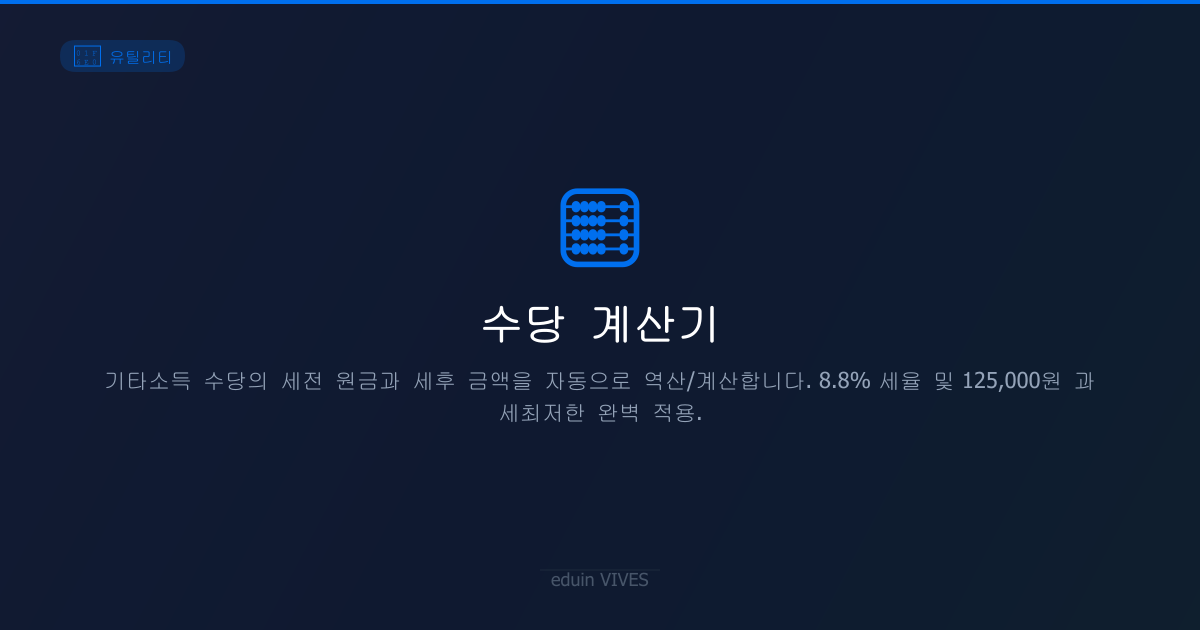
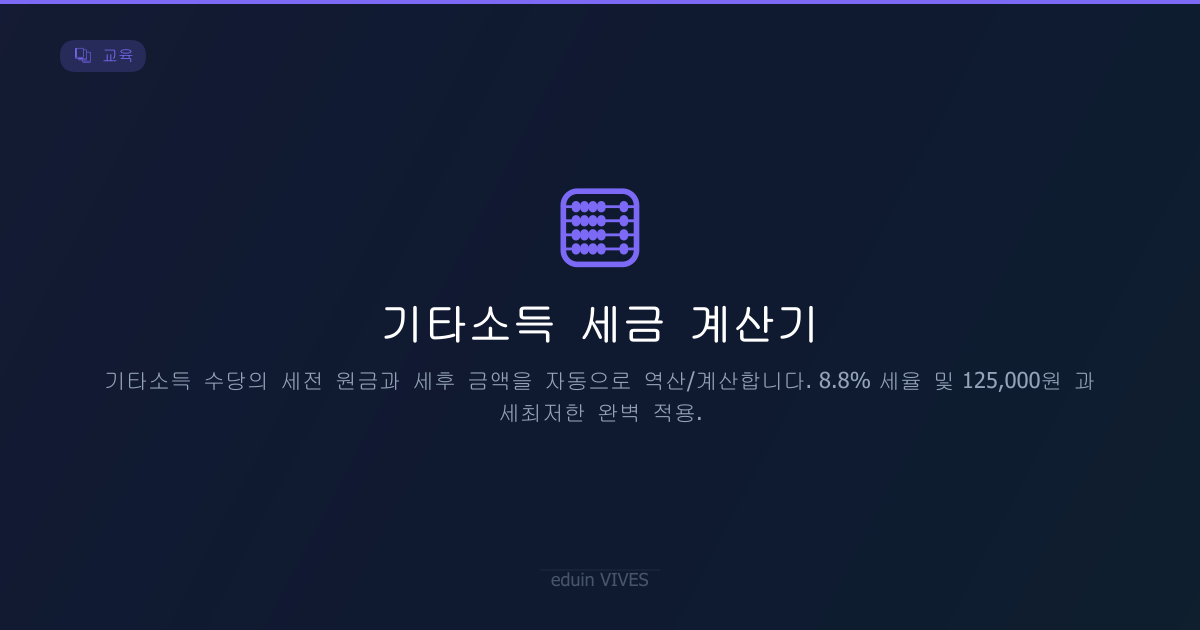
feat: 404 전환 폴백 + allowance-calculator 셸 리팩터·개명 (4단계 시작)
404.html (옛 URL 전환 + 유사앱 추천):
- 옛 /<slug>/ → /apps/<slug>/, /chrome-extentions/* → /downloads/* 자동 전환(해시·쿼리 보존)
- 정적 리다이렉트 목록 없이 apps.json 기반
- 미매치 시: 5종 감성 헤딩(랜덤) + 경로 퍼지매칭으로 유사앱 추천(리퍼럴 출처는 제외)

수당 계산기 → '기타소득 세금 계산기' 개명 (id/URL은 allowance-calculator 유지):
- apps.json title/seo.title, 앱 HTML title·h1·og·twitter·JSON-LD, OG 이미지 재생성

allowance-calculator 셸 리팩터(첫 시연):
- data-shell="column" data-width="narrow", 복붙 크롬 제거(셸 주입), .app-main으로 레이아웃 이관

(동봉) 콘텐츠 편집: volcano·blocks-universe 설명 단축, edulink 링크(에듀맵스·에듀포털) 갱신

diff --git a/public/404.html b/public/404.html
@@ -1,0 +1,144 @@
+<!DOCTYPE html>
+<html lang="ko">
+<head>
+  <meta charset="UTF-8">
+  <meta name="viewport" content="width=device-width, initial-scale=1.0">
+  <title>페이지를 찾을 수 없습니다 — eduin VIVES</title>
+  <meta name="robots" content="noindex">
+  <link rel="icon" href="/favicon.svg" type="image/svg+xml">
+  <link rel="stylesheet" href="/common/hero-theme.css">
+  <link rel="stylesheet" href="/common/app-shell.css">
+  <script src="/common/theme.js"></script>
+  <script src="/common/init.js"></script>
+  <script src="/common/app-shell.js" defer></script>
+  <style>
+    #nf { visibility: hidden; text-align: center; }
+    #nf .nf-emoji { font-size: 56px; margin-bottom: 12px; line-height: 1; }
+    #nf-suggest { margin-top: 1.25rem; display: none; }
+    .nf-suggest-card {
+      display: flex; align-items: center; gap: 12px; text-decoration: none;
+      padding: 14px 16px; border: 1px solid var(--border); border-radius: 12px;
+      background: var(--card-bg); color: var(--fg); transition: border-color .15s, transform .1s;
+      text-align: left;
+    }
+    .nf-suggest-card:hover { border-color: var(--primary); transform: translateY(-1px); }
+    .nf-suggest-emoji { font-size: 28px; line-height: 1; flex-shrink: 0; }
+    .nf-suggest-title { font-weight: 700; }
+    .nf-suggest-desc { font-size: .8rem; color: var(--fg-muted); margin-top: 2px; }
+    .nf-suggest-label { font-size: .85rem; color: var(--fg-muted); margin-bottom: .6rem; }
+  </style>
+  <script>
+    /* 옛 경로 → 새 경로 자동 전환 + 유사 앱 추천 (apps.json 기반, 정적 리다이렉트 목록 없음) */
+    (function () {
+      var path = location.pathname;
+      if (path.indexOf('/apps/') === 0 || path === '/' || path === '') return;
+
+      // 다운로드 자산 경로
+      if (path.indexOf('/chrome-extentions/') === 0) {
+        location.replace(path.replace('/chrome-extentions/', '/downloads/') + location.search + location.hash);
+        return;
+      }
+
+      var slug = path.replace(/^\/+/, '').split('/')[0];
+
+      fetch('/apps.json').then(function (r) { return r.json(); }).then(function (d) {
+        var apps = d.apps || [];
+        var pages = apps.filter(function (a) { return a.href && a.href.indexOf('/apps/') === 0; });
+        var idOf = function (a) { var m = a.href.match(/^\/apps\/([^\/]+)\//); return m ? m[1] : a.id; };
+
+        // 1) 정확 매치 → 즉시 전환 (해시·쿼리 보존)
+        for (var i = 0; i < pages.length; i++) {
+          if (idOf(pages[i]) === slug) { location.replace('/apps' + path + location.search + location.hash); return; }
+        }
+
+        // 2) 경로 + 리퍼럴로 유사 앱 추천
+        showNotFound(pages, slug, idOf);
+      }).catch(function () { showNotFound([], slug, null); });
+
+      // ── Levenshtein 유사도 ──
+      function lev(a, b) {
+        var m = a.length, n = b.length, dp = [], i, j;
+        for (i = 0; i <= m; i++) dp[i] = [i];
+        for (j = 0; j <= n; j++) dp[0][j] = j;
+        for (i = 1; i <= m; i++) for (j = 1; j <= n; j++)
+          dp[i][j] = Math.min(dp[i-1][j] + 1, dp[i][j-1] + 1, dp[i-1][j-1] + (a[i-1] === b[j-1] ? 0 : 1));
+        return dp[m][n];
+      }
+      function sim(a, b) {
+        a = (a || '').toLowerCase(); b = (b || '').toLowerCase();
+        if (!a || !b) return 0;
+        if (a === b) return 1;
+        if (b.indexOf(a) >= 0 || a.indexOf(b) >= 0) return 0.85;
+        return 1 - lev(a, b) / Math.max(a.length, b.length);
+      }
+
+      function bestMatch(pages, slug, idOf) {
+        // 리퍼럴(같은 사이트 내 출처) 앱은 추천에서 제외 — 방금 떠나온 앱을 다시 권하지 않도록
+        var fromId = null;
+        try {
+          if (document.referrer) {
+            var u = new URL(document.referrer);
+            if (u.origin === location.origin) {
+              var m = u.pathname.match(/^\/apps\/([^\/]+)\//);
+              if (m) fromId = m[1];
+            }
+          }
+        } catch (e) { /* ignore */ }
+
+        // 시도한 경로 slug를 앱 id/title과 퍼지 매칭(주 신호)
+        var best = null, bestScore = 0;
+        pages.forEach(function (a) {
+          var id = idOf(a);
+          if (id === fromId) return;
+          [id, (a.title || ''), (a.id || '')].forEach(function (c) {
+            var s = sim(slug, c);
+            if (s > bestScore) { bestScore = s; best = a; }
+          });
+        });
+        return bestScore >= 0.5 ? best : null;
+      }
+
+      var HEADINGS = [
+        '길을 잃으셨나요? 🧭',
+        '여긴 텅 비어 있어요 🌙',
+        '이 페이지는 어디로 갔을까요? 🔍',
+        '앗, 막다른 길이에요 🚧',
+        '찾으시는 게 여기엔 없네요 🍃'
+      ];
+
+      function showNotFound(pages, slug, idOf) {
+        var h = document.getElementById('nf-heading');
+        if (h) h.textContent = HEADINGS[Math.floor(Math.random() * HEADINGS.length)];
+
+        var match = idOf ? bestMatch(pages, slug, idOf) : null;
+        if (match) {
+          var box = document.getElementById('nf-suggest');
+          box.innerHTML =
+            '<div class="nf-suggest-label">혹시 이 앱을 찾으시려고 했나요?</div>' +
+            '<a class="nf-suggest-card" href="' + match.href + '">' +
+              '<span class="nf-suggest-emoji">' + (match.emoji || '📦') + '</span>' +
+              '<span><span class="nf-suggest-title">' + match.title + '</span>' +
+              '<span class="nf-suggest-desc">' + (match.desc || '') + '</span></span>' +
+            '</a>';
+          box.style.display = 'block';
+        }
+        reveal();
+      }
+
+      function reveal() { var el = document.getElementById('nf'); if (el) el.style.visibility = 'visible'; }
+      setTimeout(reveal, 3000);
+    })();
+  </script>
+</head>
+<body data-shell="column" data-width="narrow">
+  <main class="app-main">
+    <div id="nf" class="hero-card" style="padding:2.5rem 1.5rem;margin-top:2rem;">
+      <div class="nf-emoji">🧭</div>
+      <h1 id="nf-heading" class="app-title" style="justify-content:center;">페이지를 찾을 수 없어요</h1>
+      <p class="app-desc">주소가 바뀌었거나 사라진 페이지예요.</p>
+      <div id="nf-suggest"></div>
+      <a href="/" class="hero-btn" style="margin-top:1.25rem;">🏠 홈에서 찾아보기</a>
+    </div>
+  </main>
+</body>
+</html>

diff --git a/public/apps/allowance-calculator/index.html b/public/apps/allowance-calculator/index.html
@@ -3,9 +3,9 @@
 <head>
   <meta charset="UTF-8">
   <meta name="viewport" content="width=device-width, initial-scale=1.0">
-  <title>수당 계산기 — eduin VIVES</title>
+  <title>기타소득 세금 계산기 — eduin VIVES</title>
   <meta name="description" content="기타소득 수당의 세전 원금과 세후 금액을 자동으로 역산/계산합니다. 8.8% 세율 및 125,000원 과세최저한 완벽 적용.">
-  <meta property="og:title" content="수당 계산기 — 세전·세후 기타소득 세금 자동 판별 | eduin VIVES">
+  <meta property="og:title" content="기타소득 세금 계산기 — 세전·세후 기타소득 세금 자동 판별 | eduin VIVES">
   <meta property="og:description" content="기타소득 수당의 세전 원금과 세후 금액을 자동으로 역산/계산합니다. 8.8% 세율 및 125,000원 과세최저한 완벽 적용.">
   <meta property="og:image" content="https://eduin.info/og-images/allowance-calculator.png">
   <meta property="og:type" content="website">
@@ -16,21 +16,16 @@
   <link rel="preconnect" href="https://fonts.gstatic.com" crossorigin>
   <link href="https://fonts.googleapis.com/css2?family=JetBrains+Mono:wght@500;700;800&family=Noto+Sans+KR:wght@400;500;700&display=swap" rel="stylesheet">
   
-  <!-- 공통 테마 및 스타일 적용 -->
+  <!-- 공통 테마·셸·스타일 -->
   <link rel="stylesheet" href="/common/hero-theme.css">
+  <link rel="stylesheet" href="/common/app-shell.css">
   <script src="/common/theme.js"></script>
   <script src="/common/init.js"></script>
+  <script src="/common/app-shell.js" defer></script>
   <script src="/common/seo-injector.js" defer></script>
   
   <style>
-    body {
-      min-height: 100vh;
-      display: flex;
-      flex-direction: column;
-      align-items: center;
-      padding: 56px 1rem 6rem;
-      margin: 0;
-    }
+    body { margin: 0; }
 
     body::before {
       content: '';
@@ -44,12 +39,8 @@
       z-index: 0;
     }
 
-    /* 앱 전용 스타일 및 토큰 확장 */
+    /* 앱 전용 스타일 — 폭·정렬·패딩은 셸(.app-main, data-width=narrow)이 담당 */
     .calculator-layout {
-      width: 100%;
-      max-width: 480px;
-      position: relative;
-      z-index: 1;
       display: flex;
       flex-direction: column;
       gap: 24px;
@@ -303,37 +294,23 @@
     }
   </style>
   <meta name="twitter:card" content="summary_large_image">
-  <meta name="twitter:title" content="수당 계산기 — 세전·세후 기타소득 세금 자동 판별 | eduin VIVES">
+  <meta name="twitter:title" content="기타소득 세금 계산기 — 세전·세후 기타소득 세금 자동 판별 | eduin VIVES">
   <meta name="twitter:description" content="기타소득 수당의 세전 원금과 세후 금액을 자동으로 역산/계산합니다. 8.8% 세율 및 125,000원 과세최저한 완벽 적용.">
   <meta name="twitter:image" content="https://eduin.info/og-images/allowance-calculator.png">
   <link rel="canonical" href="https://eduin.info/apps/allowance-calculator/">
   <meta property="og:url" content="https://eduin.info/apps/allowance-calculator/">
-  <script type="application/ld+json">{"@context":"https://schema.org","@type":"WebApplication","name":"수당 계산기","description":"기타소득 수당의 세전 원금과 세후 금액을 자동으로 역산/계산합니다. 8.8% 세율 및 125,000원 과세최저한 완벽 적용.","url":"https://eduin.info/apps/allowance-calculator/","applicationCategory":"EducationApplication","operatingSystem":"Any","offers":{"@type":"Offer","price":"0","priceCurrency":"KRW"},"isPartOf":{"@type":"WebSite","name":"eduin VIVES","url":"https://eduin.info"}}</script>
+  <script type="application/ld+json">{"@context":"https://schema.org","@type":"WebApplication","name":"기타소득 세금 계산기","description":"기타소득 수당의 세전 원금과 세후 금액을 자동으로 역산/계산합니다. 8.8% 세율 및 125,000원 과세최저한 완벽 적용.","url":"https://eduin.info/apps/allowance-calculator/","applicationCategory":"EducationApplication","operatingSystem":"Any","offers":{"@type":"Offer","price":"0","priceCurrency":"KRW"},"isPartOf":{"@type":"WebSite","name":"eduin VIVES","url":"https://eduin.info"}}</script>
 </head>
-<body>
+<body data-shell="column" data-width="narrow">
 
-  <!-- 좌상단 홈가기 오버레이 -->
-  <div class="top-overlay-left">
-    <a href="/" class="overlay-btn">
-      <svg xmlns="http://www.w3.org/2000/svg" width="16" height="16" fill="none" viewBox="0 0 24 24" stroke="currentColor" stroke-width="2">
-        <path stroke-linecap="round" stroke-linejoin="round" d="M3 12l2-2m0 0l7-7 7 7M5 10v10a1 1 0 001 1h3m10-11l2 2m-2-2v10a1 1 0 01-1 1h-3m-6 0a1 1 0 001-1v-4a1 1 0 011-1h2a1 1 0 011 1v4a1 1 0 001 1m-6 0h6" />
-      </svg>
-      <span>홈</span>
-    </a>
-  </div>
-
-  <!-- 우상단 테마 및 공유 오버레이 -->
-  <div class="top-overlay">
-    <button id="themeToggleBtn" class="overlay-btn" onclick="cycleTheme()">💻</button>
-    <button class="overlay-btn" onclick="shareCurrentPage()">공유</button>
-  </div>
+  <!-- 플로팅 크롬(홈·테마·공유)은 app-shell.js가 주입 -->
 
   <!-- 계산기 레이아웃 -->
-  <div class="page-wrap calculator-layout" style="position: relative; z-index: 1;">
+  <main class="app-main calculator-layout">
     
     <header class="app-header">
       <span class="app-badge">◆ 업무경감</span>
-      <h1 class="app-title">🧮 수당 계산기</h1>
+      <h1 class="app-title">🧮 기타소득 세금 계산기</h1>
       <p class="app-desc">세전 원금과 세후 실수령액 및 기타소득 세금(8.8%)을 한 번에 자동 판별하고 계산합니다.</p>
     </header>
 
@@ -402,7 +379,7 @@
       </div>
     </div>
 
-  </div>
+  </main>
 
   <!-- 공통 토스트 용 -->
   <div id="fd-toast"></div>

diff --git a/public/apps/volcano/index.html b/public/apps/volcano/index.html
@@ -243,11 +243,11 @@ h1,h2,h3{font-family:'Jua',sans-serif;font-weight:400}
   <meta property="og:image" content="https://eduin.info/og-images/volcano.png">
   <meta name="twitter:card" content="summary_large_image">
   <meta name="twitter:title" content="화산 탐험대 — 3D 지도 세계 화산 여행 | eduin VIVES">
-  <meta name="twitter:description" content="세계 화산 11개를 3D 위성지도로 직접 탐험해요. 백두산·한라산·후지산 등을 관찰하고 화산인지 맞혀 보세요. 초등 과학 4학년 화산 단원 연계.">
+  <meta name="twitter:description" content="세계 화산 11개를 3D 위성지도로 직접 탐험해요. 백두산·한라산·후지산 등을 관찰하고 화산인지 맞혀 보세요.">
   <meta name="twitter:image" content="https://eduin.info/og-images/volcano.png">
   <link rel="canonical" href="https://eduin.info/apps/volcano/">
   <meta property="og:url" content="https://eduin.info/apps/volcano/">
-  <script type="application/ld+json">{"@context":"https://schema.org","@type":"WebApplication","name":"화산 탐험대","description":"세계 화산 11개를 3D 위성지도로 직접 탐험해요. 백두산·한라산·후지산 등을 관찰하고 화산인지 맞혀 보세요. 초등 과학 4학년 화산 단원 연계.","url":"https://eduin.info/apps/volcano/","applicationCategory":"EducationApplication","operatingSystem":"Any","offers":{"@type":"Offer","price":"0","priceCurrency":"KRW"},"isPartOf":{"@type":"WebSite","name":"eduin VIVES","url":"https://eduin.info"}}</script>
+  <script type="application/ld+json">{"@context":"https://schema.org","@type":"WebApplication","name":"화산 탐험대","description":"세계 화산 11개를 3D 위성지도로 직접 탐험해요. 백두산·한라산·후지산 등을 관찰하고 화산인지 맞혀 보세요.","url":"https://eduin.info/apps/volcano/","applicationCategory":"EducationApplication","operatingSystem":"Any","offers":{"@type":"Offer","price":"0","priceCurrency":"KRW"},"isPartOf":{"@type":"WebSite","name":"eduin VIVES","url":"https://eduin.info"}}</script>
   <script src="/common/seo-injector.js" defer></script>
 </head>
 <body>
@@ -452,7 +452,7 @@ function renderIntro(){
     <div class="intro">
       <div class="volcano-art">🌋</div>
       <h1>화산 탐험대</h1>
-      <div class="lesson-tag">과학 4학년 · 화산과 화산이 아닌 산은 무엇이 다를까요? (70~71쪽)</div>
+      <div class="lesson-tag">화산과 화산이 아닌 산은 무엇이 다를까요?</div>
       <p class="sub">화산은 직접 가 보기 어려워요.<br>이 앱 안에서 바로 <b>3D 지도</b>를 움직이며<br>세계의 산 11개를 탐험해 봐요!</p>
       <div class="mission-card">
         <h3>🧭 탐험 방법</h3>

diff --git a/public/apps/blocks-universe/index.html b/public/apps/blocks-universe/index.html
@@ -16,7 +16,7 @@
   <meta name="twitter:image" content="https://eduin.info/og-default.png">
   <link rel="canonical" href="https://eduin.info/apps/blocks-universe/">
   <meta property="og:url" content="https://eduin.info/apps/blocks-universe/">
-  <script type="application/ld+json">{"@context":"https://schema.org","@type":"WebApplication","name":"Blocks Universe","description":"넘버블록스·알파블록스·컬러블록스·원더블록스 351편의 에피소드를 탐색하세요. AI 검색·즐겨찾기·재생목록·순차재생 지원.","url":"https://eduin.info/apps/blocks-universe/","applicationCategory":"EducationApplication","operatingSystem":"Any","offers":{"@type":"Offer","price":"0","priceCurrency":"KRW"},"isPartOf":{"@type":"WebSite","name":"eduin VIVES","url":"https://eduin.info"}}</script>
+  <script type="application/ld+json">{"@context":"https://schema.org","@type":"WebApplication","name":"Blocks Universe","description":"넘버블록스·알파블록스·컬러블록스·원더블록스의 전체 에피소드를 탐색하세요.","url":"https://eduin.info/apps/blocks-universe/","applicationCategory":"EducationApplication","operatingSystem":"Any","offers":{"@type":"Offer","price":"0","priceCurrency":"KRW"},"isPartOf":{"@type":"WebSite","name":"eduin VIVES","url":"https://eduin.info"}}</script>
 </head>
 <body>
 
